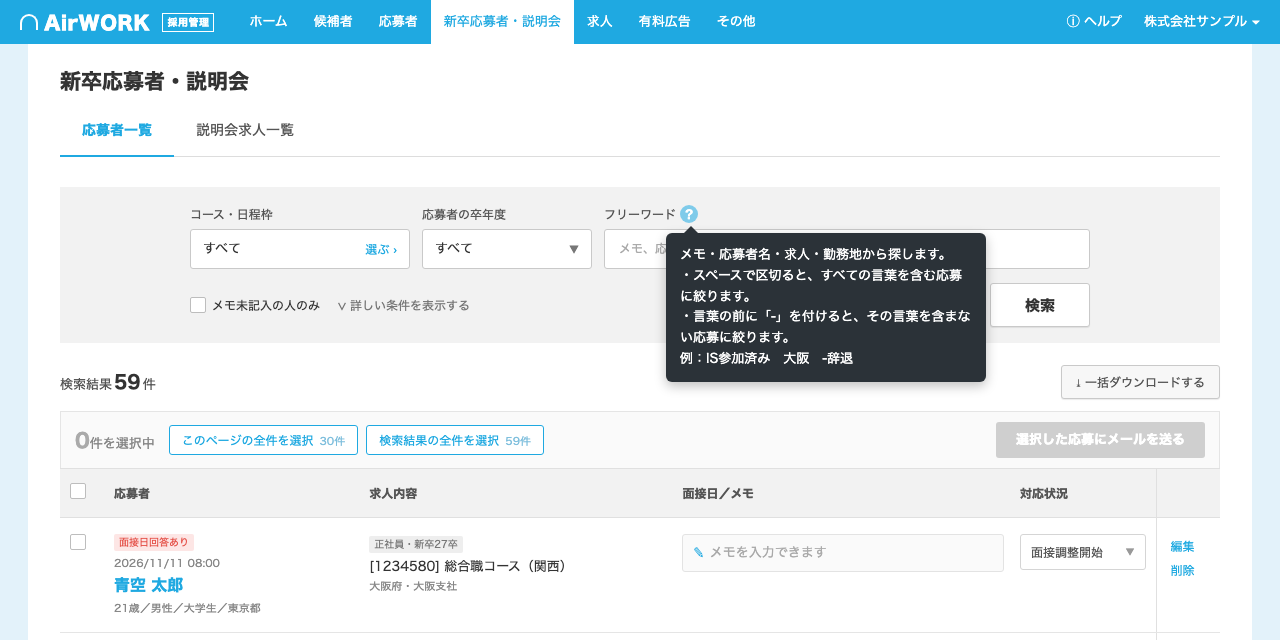
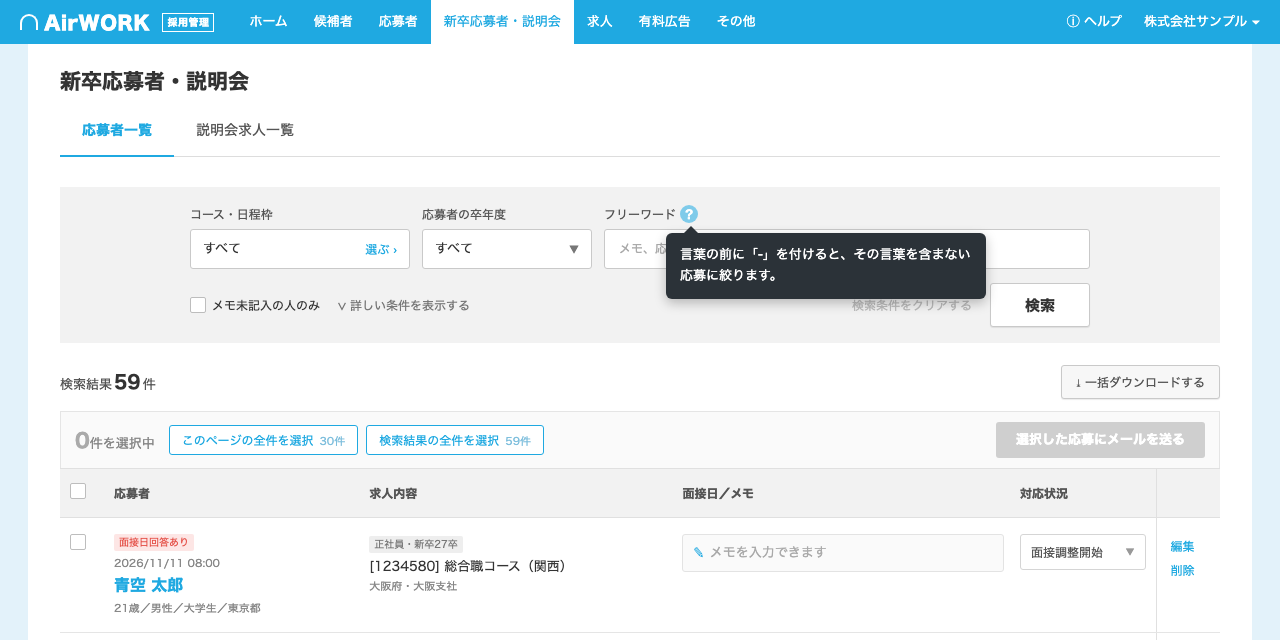
フリーワードの「？」の説明を「-」の使い方の1文だけにする

Changed region(s): [[0.5, 0.375, 0.7812, 0.625]]

diff --git a/index.html b/index.html
@@ -28,7 +28,7 @@
           <div class="sel" id="yearBtn" style="width:170px"><span id="yearVal">すべて</span><span class="cv">▼</span></div>
           <div class="dd" id="yearDD"></div>
         </div></div>
-        <div class="f"><span class="t">フリーワード<span class="qtip down click" id="kwTip">?<span class="qbox">メモ・応募者名・求人・勤務地から探します。<br>・スペースで区切ると、すべての言葉を含む応募に絞ります。<br>・言葉の前に「-」を付けると、その言葉を含まない応募に絞ります。<br>例：IS参加済み　大阪　-辞退</span></span></span><label class="fw"><input id="kwIn" placeholder="メモ、応募者名、求人名、勤務地（スペース区切りで複数入力可）"></label></div>
+        <div class="f"><span class="t">フリーワード<span class="qtip down click" id="kwTip">?<span class="qbox">言葉の前に「-」を付けると、その言葉を含まない応募に絞ります。</span></span></span><label class="fw"><input id="kwIn" placeholder="メモ、応募者名、求人名、勤務地（スペース区切りで複数入力可）"></label></div>
       </div>
       <div class="r2">
         <label class="cb" id="memoEmptyLbl"><span class="box" id="memoEmptyBox"></span>メモ未記入の人のみ</label>
@@ -123,8 +123,8 @@
     </label>
     <label>ダウンロード
       <select id="demoDl">
-        <option value="none" selected>なし</option>
-        <option value="run">作成中</option>
+        <option value="none">なし</option>
+        <option value="run" selected>作成中</option>
         <option value="ok">作成完了</option>
         <option value="ng">作成失敗</option>
       </select>
